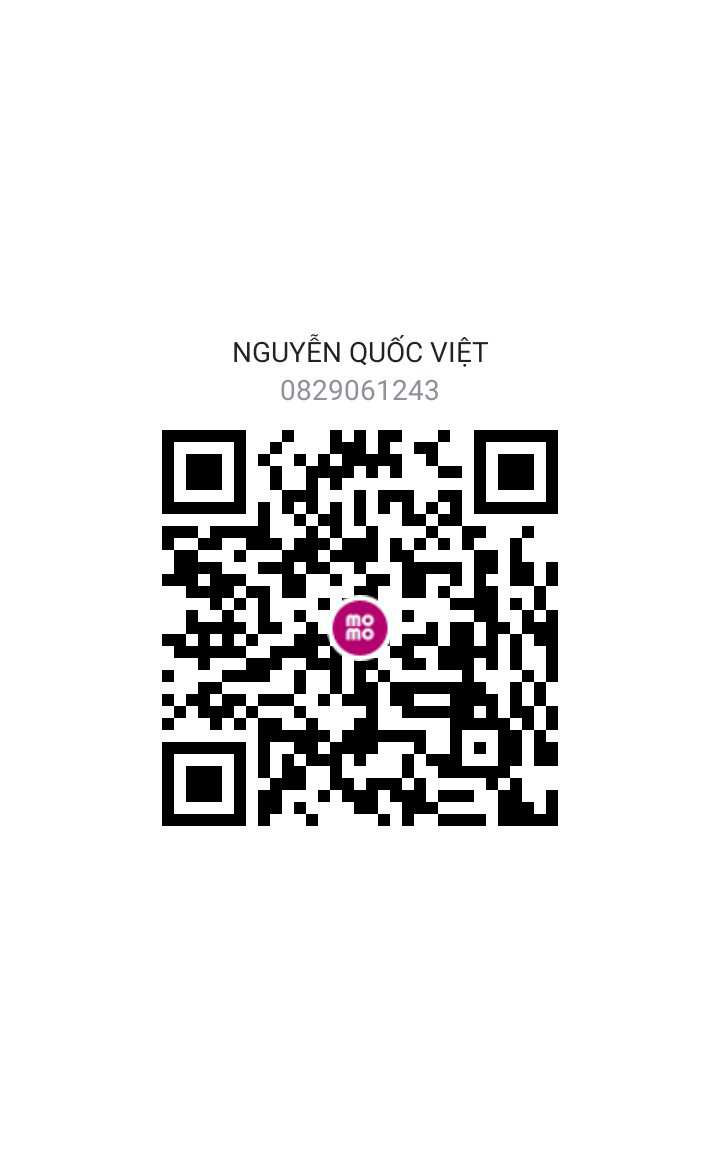
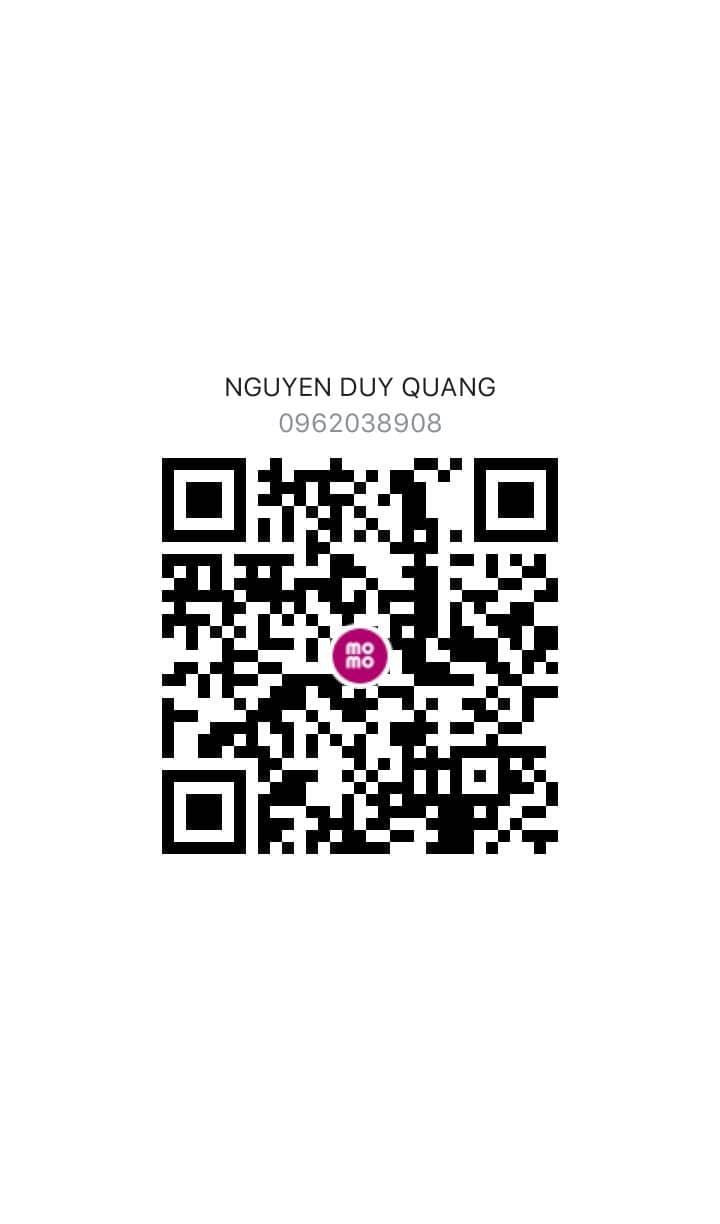
create momo image to transaction
create momo image to transaction

Changed region(s): [[0.2139, 0.2793, 0.7944, 0.7138], [0.6722, 0.3724, 0.7639, 0.4034]]

diff --git a/resources/views/admin.blade.php b/resources/views/admin.blade.php
@@ -38,8 +38,8 @@
                         </div>
                     </div>
                     <div class="col-md-9 col-sm-9 ">
-                        {!! $orderChart->container() !!}
-                        {!! $orderChart->script() !!}
+                     {{-- {!! $orderChart->container() !!} --}}   
+                     {{-- {!! $orderChart->script() !!} --}}  
                     </div>
                     <div class="col-md-3 col-sm-3  bg-white">
                         <div class="x_title">
@@ -106,8 +106,10 @@
                         <h2>@lang('admin.chart.category')</h2>
                         <div class="clearfix"></div>
                     </div>
-                    {!! $cateChart->container() !!}
-                    {!! $cateChart->script() !!}
+                    {{-- {!! $cateChart->container() !!} --}}
+                    {{-- {!! $cateChart->script() !!} --}}
+                    
+                    
                 </div>
             </div>
 
@@ -117,8 +119,10 @@
                     <div class="x_title">
                         <h2>@lang('admin.chart.order_status')</h2>
                         <div class="clearfix"></div>
-                        {!! $orderSttChart->container() !!}
-                        {!! $orderSttChart->script() !!}
+                        {{-- {!! $orderSttChart->container() !!} --}}
+                        {{-- {!! $orderSttChart->script() !!} --}}
+                        
+                        
                     </div>
 
                 </div>

diff --git a/resources/views/cart/order.blade.php b/resources/views/cart/order.blade.php
@@ -113,7 +113,7 @@
                                                             <li class="list-group-item text-center">@lang('main.payment.note_header')</li>
                                                             <li class="list-group-item list-group-item-primary">TPBank: 03401732501</li>
                                                             <li class="list-group-item list-group-item-secondary">BIDV: 51510000357364</li>
-                                                            <li class="list-group-item list-group-item-success">MOMO: 0829061243</li>
+                                                            <li class="list-group-item list-group-item-success">MOMO: 0962038908</li>
                                                             <li class="list-group-item list-group-item-danger"><img class="img-fluid" src="images/cart/QRMOMO.jpg" alt=""></li>
                                                             <li class="list-group-item list-group-item-warning">@lang('main.payment.note_footer')</li>
                                                             <li class="list-group-item list-group-item-info">
